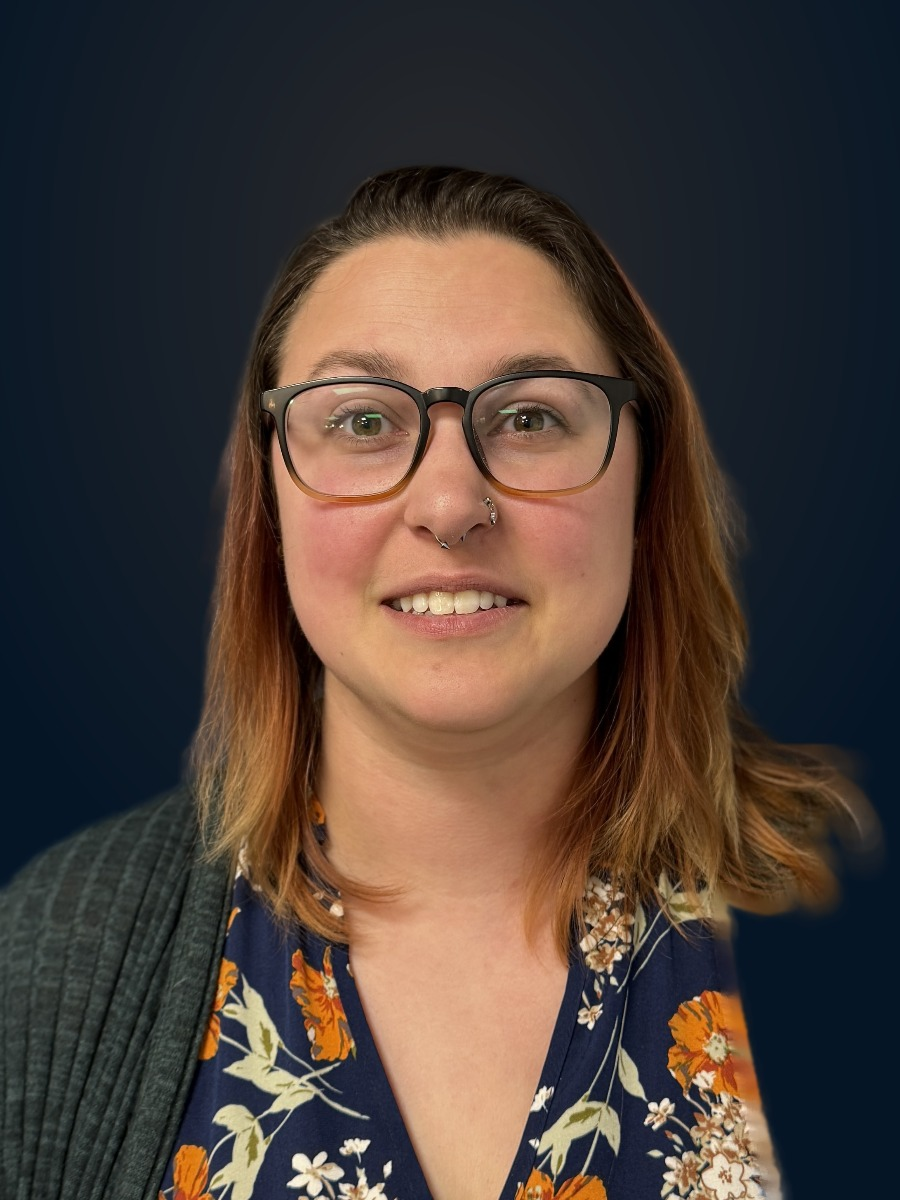
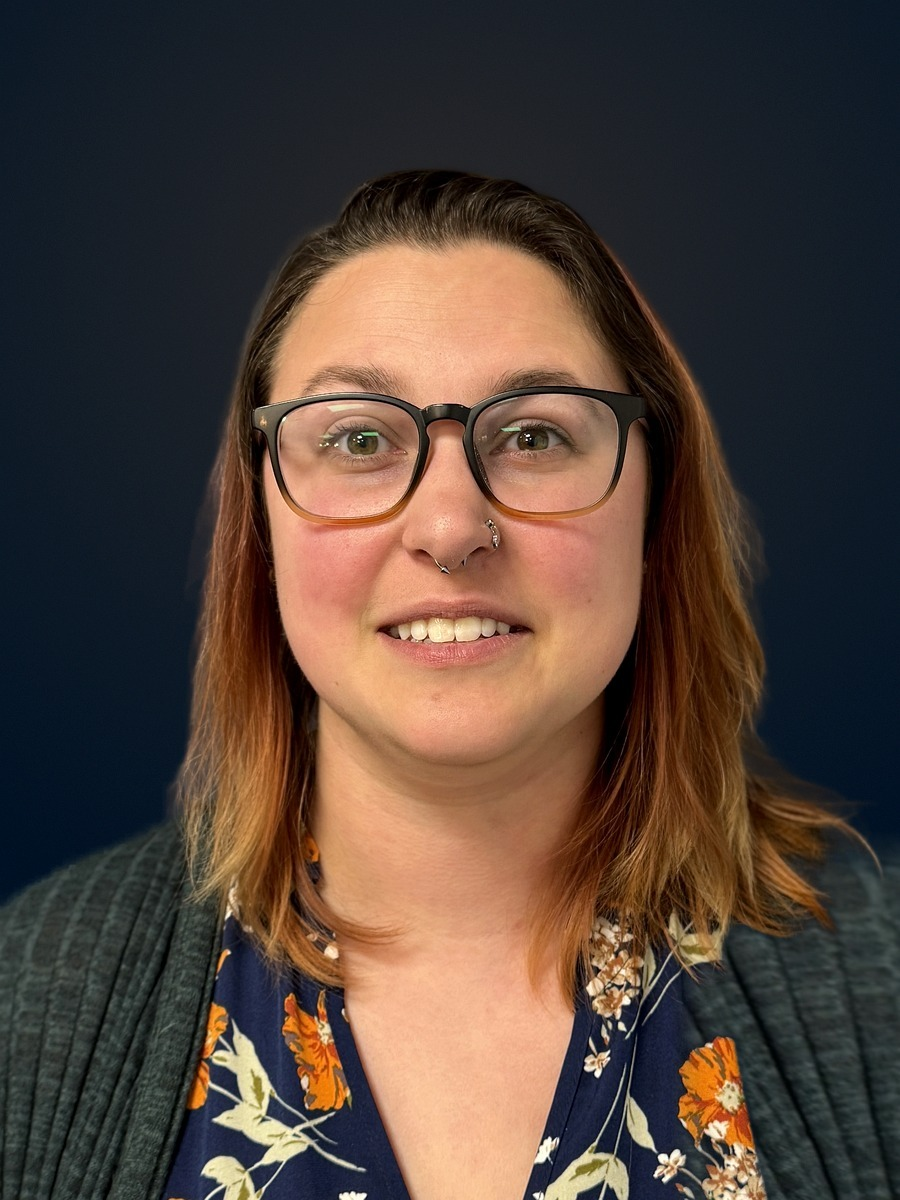
Fix Chelsea right-shoulder cardigan and add stat block spacing
- Chelsea: restore missing grey cardigan on her left shoulder (right
  from viewer) by painting mirrored left-cardigan texture over navy
  pixels; image now balanced with visible cardigan on both sides
- About: fix stat block spacing — StaggerContainer now uses space-y-5
  so margins between the three navy cards render correctly

diff --git a/components/About.tsx b/components/About.tsx
@@ -75,10 +75,10 @@ export default function About() {
 
           {/* Right — stats */}
           <SlideInRight className="flex flex-col gap-6 lg:pt-16">
-            <StaggerContainer stagger={0.12}>
+            <StaggerContainer stagger={0.12} className="space-y-5">
               {stats.map((stat) => (
                 <StaggerItem key={stat.label}>
-                  <div className="bg-navy rounded-lg p-8 text-center mb-6 last:mb-0">
+                  <div className="bg-navy rounded-lg p-8 text-center">
                     <p className="font-serif text-5xl text-white mb-2">
                       {stat.value}
                     </p>
